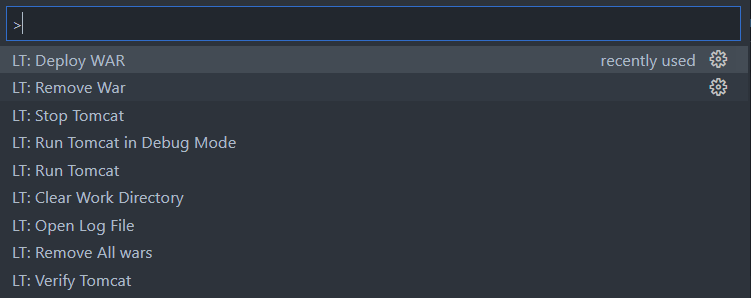
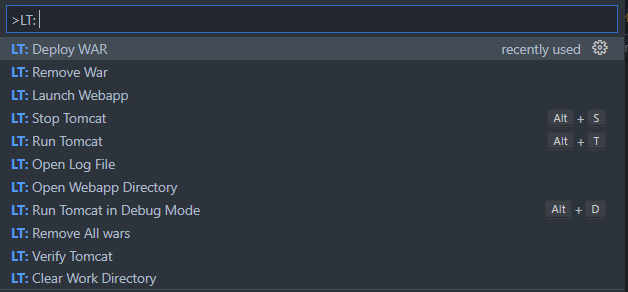
docs: update readme for v0.2.0

diff --git a/README.md b/README.md
@@ -15,6 +15,8 @@ After configuring required properties. It can deploy, remove and can even open l
 * LT: Stop Tomcat - Will stop the tomcat instance if it is running.
 * LT: Run Tomcat in Debug Mode - Will run the tomcat in debug mode in its configured port if its not already running.
 * LT: Deploy WAR - Will deploy the war prompting for context name.
+* LT: Launch Webapp - Will present an option to select deployed webapp which will be launched using browser.
+* LT: Open Webapp Directory - Will present an option to select deployed webapp which will open that deployed folder in separate vscode instance.
 
 
 ## Requirements
@@ -30,9 +32,7 @@ The only required configuration are these two keys that can be added in settings
 
 * local-tomcat.catalinaHome (required) to be configured to tomcat home / catalina home.
 * local-tomcat.warDir (optional) will contain relative path to war directory. Default value is 'target'.
-
-## Known Issues
-* Only Single war will be deployed even if target contains multiple.
+* local-tomcat.deploymentPort (optional) tomcat port at which applications are accessible. Default value is 8080.
 
 ## Release Notes
 
@@ -45,3 +45,9 @@ Initial release
 ### 0.1.0
 
 Added support for all platforms (Windows, Linux, Darwin).
+
+
+### 0.2.0
+* Added multi-war deployement.
+* Added option to open deployed webapp directory.
+* Added option to launch webapp in browser.
